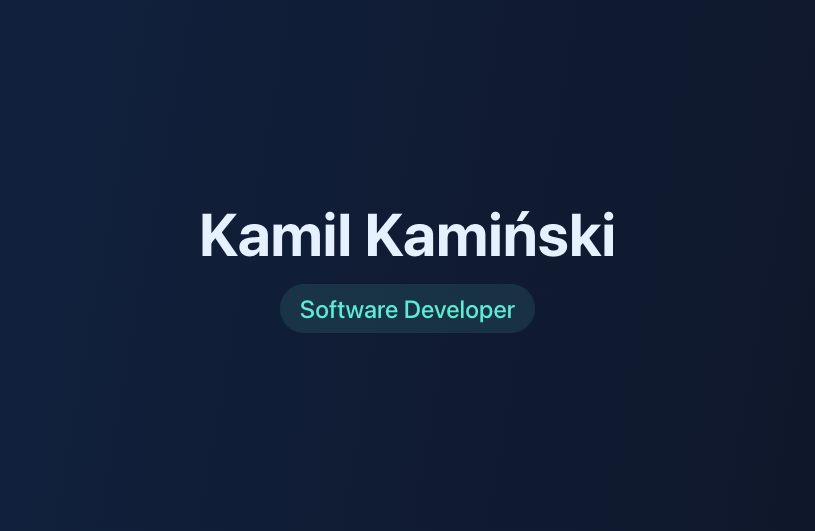
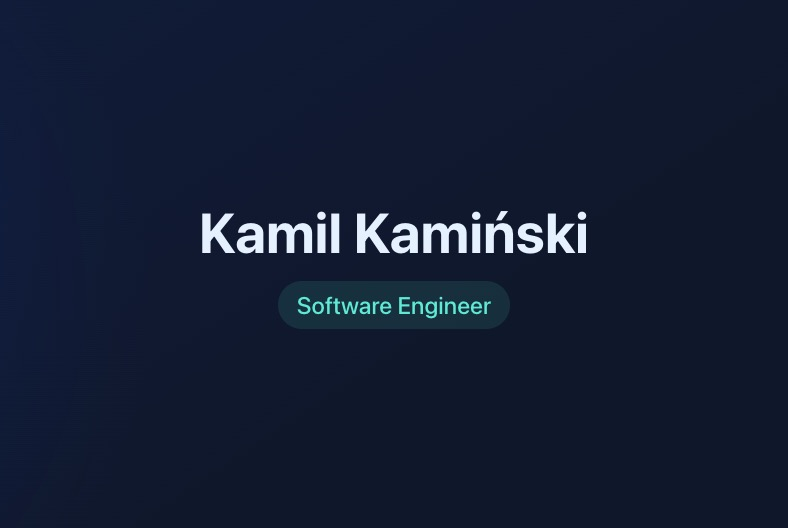
feat: Update title and about section

Changed region(s): [[0.2437, 0.3939, 0.7614, 0.4848], [0.335, 0.5455, 0.6701, 0.6364]]

diff --git a/src/utils/consts.ts b/src/utils/consts.ts
@@ -16,7 +16,8 @@ export const EXTERNAL_SITES = {
   leadin: 'https://www.leadin.pl/',
   bluerider: 'https://bluerider.software/',
   murator: 'https://projekty.muratordom.pl/',
-  grupazpr: 'https://www.grupazpr.pl/'
+  grupazpr: 'https://www.grupazpr.pl/',
+  inpost: 'https://inpost.pl/'
 }
 
 export const SOCIAL_MEDIA = {
@@ -27,7 +28,15 @@ export const SOCIAL_MEDIA = {
 
 export const EXPERIENCE = [
   {
-    timeFrame: 'Aug 2023 — Present',
+    timeFrame: 'Jul 2024 — Present',
+    link: EXTERNAL_SITES.inpost,
+    workType: 'Full time',
+    title: 'Software Engineer · InPost',
+    desc: 'Build and maintain tools for InPost employees, ensuring integration of backend and frontend technologies to enhance operational efficiency.',
+    techStack: ['Python', 'Flask', 'FastAPI', 'TypeScript', 'React']
+  },
+  {
+    timeFrame: 'Aug 2023 — Jun 2024',
     link: EXTERNAL_SITES.netstation,
     workType: 'Full time',
     title: 'Software Developer · Netstation',
@@ -52,7 +61,7 @@ export const EXPERIENCE = [
     timeFrame: 'Sept — Oct 2022',
     link: EXTERNAL_SITES.bluerider,
     title: 'Python Developer · BlueRider.Software',
-    workType: 'Intern',
+    workType: 'Internship',
     desc: 'Worked on an MVP of a recommendations platform for a start-up. Additionally, gained hands-on experience with containerization using Docker and deployment on AWS infrastructure.',
     techStack: ['Python', 'Django', 'Django REST Framework', 'PostgreSQL', 'Docker', 'AWS']
   },
@@ -60,7 +69,7 @@ export const EXPERIENCE = [
     timeFrame: 'July — Aug 2022',
     link: EXTERNAL_SITES.bluerider,
     title: 'Python Developer · BlueRider.Software',
-    workType: 'Practices',
+    workType: 'Apprenticeship',
     desc: 'Successfully developed and shipped a web scraping project in order to extract relevant data for analysis and decision-making purposes.',
     techStack: ['Python', 'BeautifulSoup4', 'Pandas', 'MySQL']
   }

diff --git a/index.html b/index.html
@@ -3,7 +3,7 @@
   <head>
     <meta charset="UTF-8">
     <title>Kamil Kamiński</title>
-    <meta name="description" content="Full Stack Developer in Django & React">
+    <meta name="description" content="Full Stack Developer in Python & React">
     <link rel="icon" type="image/png" sizes="16x16" href="/favicon-16x16.png">
     <link rel="icon" type="image/png" sizes="32x32" href="/favicon-32x32.png">
     <link rel="icon" type="image/png" sizes="48x48" href="/favicon-48x48.png">
@@ -15,10 +15,10 @@
     <meta property="og:site_name" content="Kamil Kamiński">
     <meta property="og:url" content="https://kamilkaminski.pl/">
     <meta property="og:type" content="website">
-    <meta property="og:description" content="Full Stack Developer in Django & React">
+    <meta property="og:description" content="Full Stack Developer in Python & React">
     <meta property="og:image" content="https://kamilkaminski.pl/og.png">
     <meta property="twitter:title" content="Kamil Kamiński">
-    <meta property="twitter:description" content="Full Stack Developer in Django & React">
+    <meta property="twitter:description" content="Full Stack Developer in Python & React">
     <meta property="twitter:card" content="summary_large_image">
     <meta property="twitter:image" content="https://kamilkaminski.pl/og.png">
     <meta property="twitter:url" content="https://kamilkaminski.pl/">

diff --git a/src/components/organisms/Main/partials/sections/AboutSection/index.tsx b/src/components/organisms/Main/partials/sections/AboutSection/index.tsx
@@ -23,9 +23,9 @@ const AboutSection = () => {
         {renderLink(EXTERNAL_SITES.grupazpr, 'media brands')}.
       </p>
       <p className="about-section__paragraph">
-        My main focus these days is building products at{' '}
-        {renderLink(EXTERNAL_SITES.netstation, 'Netstation')}. In my free time I create full stack
-        projects, developing my skills in Django, React, SASS, and AWS services.
+        My main focus these days is building products for employees at{' '}
+        {renderLink(EXTERNAL_SITES.inpost, 'InPost')}. In my free time I create full stack projects
+        developing my skills in Flask, FastAPI, React, and DevOps methodologies.
       </p>
       <p className="about-section__paragraph">
         Apart from my regular work hours, I enjoy keeping up with the newest trends and technologies

diff --git a/src/components/organisms/Header/partials/sections/TitleSection/index.tsx b/src/components/organisms/Header/partials/sections/TitleSection/index.tsx
@@ -8,7 +8,7 @@ const TitleSection = () => {
       <h1 className="title-section__title">
         <Link to={PATHS.home}>Kamil Kamiński</Link>
       </h1>
-      <h2 className="title-section__subtitle">Software Developer at Netstation</h2>
+      <h2 className="title-section__subtitle">Software Engineer at InPost</h2>
       <p className="title-section__desc">Passionate about creating robust web applications.</p>
     </section>
   )

diff --git a/src/utils/mixins.scss b/src/utils/mixins.scss
@@ -143,6 +143,7 @@
 
     background-color: rgba(15, 23, 42, 0.5);
     backdrop-filter: blur(5px);
+    -webkit-backdrop-filter: blur(5px);
   }
 
   @include for-tablet {
